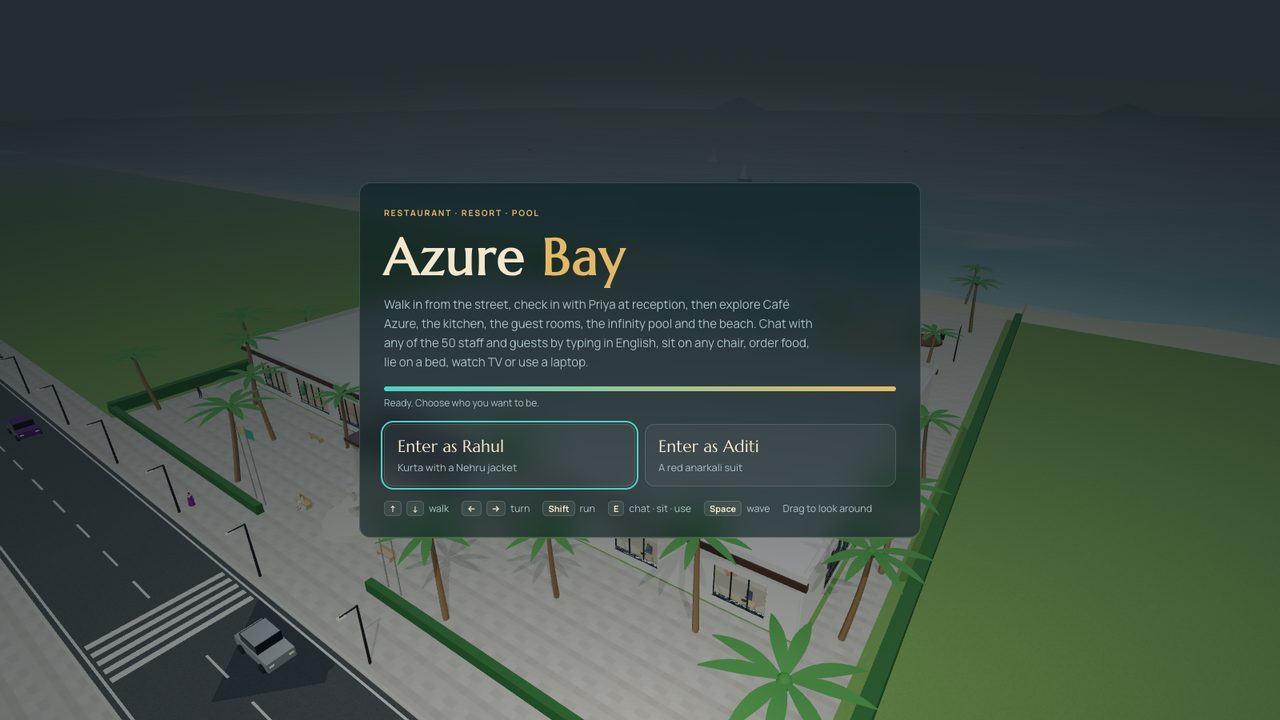
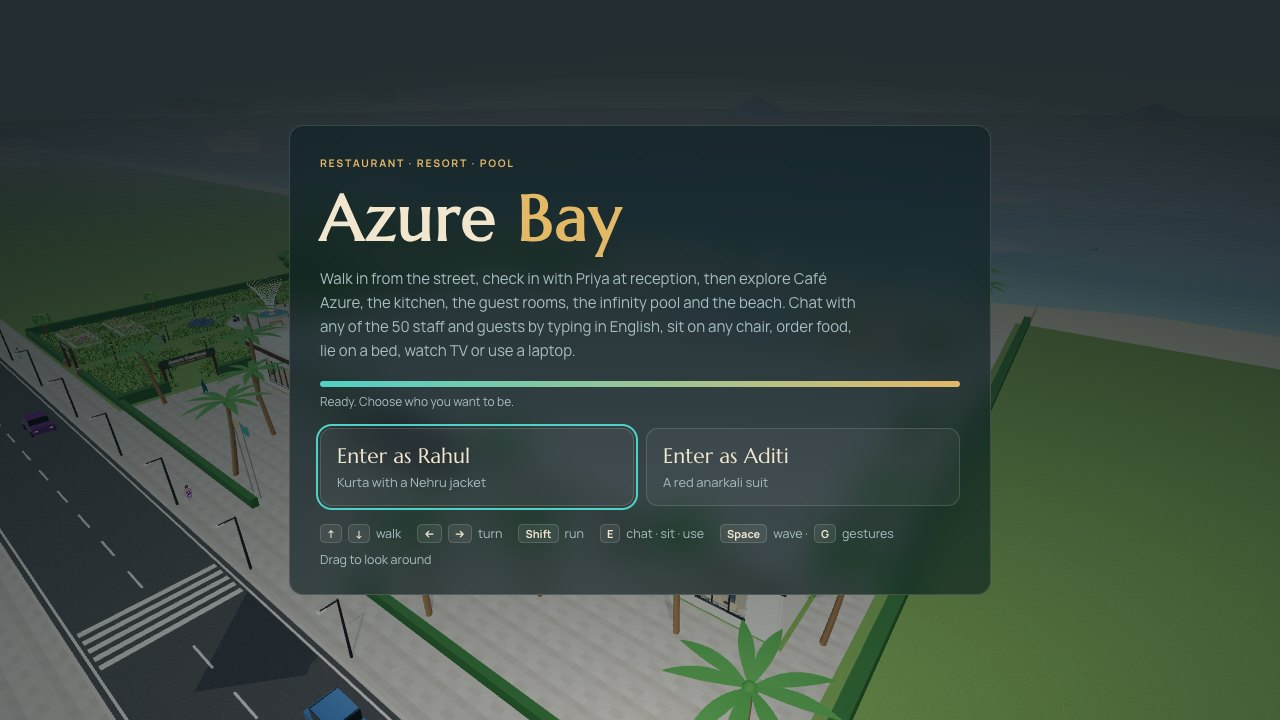
feat: update media assets with new images and animations

diff --git a/README.md b/README.md
@@ -17,6 +17,7 @@
   <a href="#-from-real-places-to-the-resort">Inspiration</a> ·
   <a href="#-meet-the-people">The people</a> ·
   <a href="#-everything-is-usable">What you can do</a> ·
+  <a href="#azure-gardens-the-park">The park</a> ·
   <a href="#-talk-to-anyone">Chat</a> ·
   <a href="#-controls">Controls</a> ·
   <a href="#-how-it-works">How it works</a> ·
@@ -31,20 +32,21 @@ the street, pass the fountain and the Sikh security guard, check in with Priya a
 then explore Café Azure, the kitchen, six guest rooms, the infinity pool, the pool bar and
 the beach.
 
-About fifty Indian staff and guests in traditional dress are living their day around you.
-You can **type to any of them in English**, sit on any free chair, order food, lie on a bed,
-switch on the TV or use a laptop. It is plain JavaScript and Three.js, with no build step and
-no backend.
+Fifty-eight real 3D Indian people are living their day around you: staff in the resort's
+teal uniform, and guests in sarees, salwar suits, kurtas and casual wear. Each has their own
+face, colours and height. You can **type to any of them in English**, sit on any free chair,
+order food, lie on a bed, switch on the TV, use a laptop, or relax in Azure Gardens, the
+park next door. It is plain JavaScript and Three.js, with no build step and no backend.
 
 <p align="center">
-  <img src="docs/media/walk.gif" alt="Walking through the entrance plaza toward the resort" width="720">
-  <br><sub>Walking into the entrance plaza, with the follow camera, minimap and quick-travel panel.</sub>
+  <img src="docs/media/walk.gif" alt="Aditi walking through the entrance plaza toward the resort, past Harpreet" width="720">
+  <br><sub>Aditi walks in from Ocean Drive past the fountain and Harpreet, with the follow camera, minimap and quick-travel panel.</sub>
 </p>
 
 <table align="center">
   <tr>
-    <td align="center" width="25%"><h2>51</h2><sub>people with their own routines</sub></td>
-    <td align="center" width="25%"><h2>108</h2><sub>chairs, beds, TVs and laptops you can use</sub></td>
+    <td align="center" width="25%"><h2>58</h2><sub>real 3D people with their own routines</sub></td>
+    <td align="center" width="25%"><h2>128</h2><sub>chairs, benches, beds, TVs and laptops you can use</sub></td>
     <td align="center" width="25%"><h2>10</h2><sub>zones, from the street and the park to the beach</sub></td>
     <td align="center" width="25%"><h2>0</h2><sub>build steps, servers or API keys</sub></td>
   </tr>
@@ -57,9 +59,10 @@ no backend.
 <table>
   <tr>
     <td width="33%" valign="top">
-      <h4>Traditional Indian cast</h4>
-      Everyone is generated in code in a warm animated-film style: sarees, lehengas,
-      anarkalis, sherwanis, dhoti-kurta, turbans, jhumkas and gajra.
+      <h4>Real 3D Indian cast</h4>
+      Sculpted, rigged people with five real men's faces and six women's faces. Sarees, salwar
+      suits, kurtas, polos and printed shirts, each in their own colours, plus bindis, earrings,
+      turbans and grey hair. No two look alike.
     </td>
     <td width="33%" valign="top">
       <h4>Type to chat</h4>
@@ -76,17 +79,17 @@ no backend.
     <td valign="top">
       <h4>A living scene</h4>
       Waiters carry trays, the chef cooks, housekeeping makes beds, swimmers do laps, a dancer
-      performs on the pool stage, and traffic and pedestrians pass on Ocean Drive.
+      performs on the pool stage, and Priya walks you to the café, the pool, your room or the park.
     </td>
     <td valign="top">
-      <h4>A receptionist state machine</h4>
-      Priya greets you, stands up and walks you to the café, the pool or Room 104,
-      waits if you fall behind, then returns to her desk.
+      <h4>Azure Gardens</h4>
+      A park beside the plaza: grass that parts as you walk through it, cherry trees shedding
+      petals, bluebells that glow at night, a voxel garden and the Vortex light sculpture.
     </td>
     <td valign="top">
       <h4>Runs anywhere</h4>
-      Quality profiles with device detection, instancing, frustum culling and a pause when the
-      tab is hidden. An on-screen joystick appears on phones.
+      Quality profiles with device detection, instancing, low-detail models for distant people,
+      culling and a pause when the tab is hidden. An on-screen joystick appears on phones.
     </td>
   </tr>
 </table>
@@ -146,27 +149,31 @@ VS Code *Live Server* extension also work.
 ## ✦ Meet the people
 
 <p align="center">
-  <img src="docs/media/cast.jpg" alt="Eight members of the cast in traditional dress" width="100%">
+  <img src="docs/media/cast.jpg" alt="Eight members of the cast: Priya, Harpreet, Rajesh, Kavya, Aisha, Lakshmi, Ramesh and Gopal" width="100%">
 </p>
 
 <p align="center">
-  <img src="docs/media/costumes.jpg" alt="Saree, sherwani, lehenga choli and dhoti kurta, full length" width="100%">
+  <img src="docs/media/costumes.jpg" alt="Full-length outfits: Aditi's saree, a saree, a salwar suit, a village saree, a kurta-pyjama, a polo, a printed shirt and a T-shirt" width="100%">
 </p>
 
-Every person is built at load time by [`characters/indian.js`](characters/indian.js) as **one
-smooth skinned mesh** on the X-Bot skeleton. Walking, sitting, waving and dancing therefore
-bend the saree pleats, the kurta hem and the braid along with the body.
+Everyone is a real, sculpted 3D model. They are built from a few rigged bodies, then each
+person is made their own: a different real face, face shape, skin tone, hair, height and
+colours ([`characters/looks.js`](characters/looks.js)).
 
 | | Women | Men |
 |---|---|---|
-| **Face** | Big brown eyes with kajal and a winged liner, arched brows, rosy cheeks, soft smile | Big brown eyes, thick brows, moustache (classic or royal), optional beard |
-| **Hair** | Centre parting with sindoor, bun with a jasmine gajra, long braid with a paranda, open hair | Side-parted quiff, grey for elders, Sikh pagri or Rajasthani safa |
-| **Dress** | Silk saree with front pleats, zari border and pallu · lehenga choli · anarkali · salwar kameez with dupatta | Kurta pyjama with side slits · Nehru jacket · sherwani · dhoti-kurta with shawl · chef's whites · security uniform |
-| **Jewellery** | Jhumkas, necklace and pendant, mangalsutra, maang tikka, nath, bangles, payal, mehndi | Kada, rudraksha mala, tilak |
-| **Footwear** | Juttis | Mojaris (pointed tips) |
+| **Bodies** | A draped saree, a salwar suit (kameez, churidar and dupatta) and a village-style saree | A kurta-pyjama, a polo with trousers, a printed shirt with jeans, and a T-shirt |
+| **Faces** | Six real faces, each reshaped a little (width, jaw, length, depth) | Five real faces, reshaped the same way |
+| **Colours** | The saree print turned to each woman's colour; kameez in plain, bandhani, block-print or check | Kurtas plain, striped, checked or dotted; shirts and trousers in their own colours |
+| **Details** | Bindi, nose ring, earrings, gajra flowers, glasses, lipstick, grey hair for elders | Beard or moustache, glasses, tilak, Harpreet's turban, the chefs' caps, grey hair for elders |
+| **Staff** | The resort saree (teal with an orange print) | A teal kurta with a cream pyjama |
 
-Women share the skeleton scaled to 1.65 m. Identical outfits share geometry, and each person
-takes two draw calls: one for cloth and skin, one for gold.
+**You** play as Rahul (the kurta model's own face) or Aditi (the *Free fire character in
+Indian look* exactly as made: pink saree, purple pallu and yellow blouse). Walking,
+running, sitting, lying, swimming and every gesture are retargeted onto each body. Women
+in a saree take shorter, quicker steps, and the saree hangs as one cloth instead of
+splitting into trouser legs. The models, their authors and licences are listed in
+[Real 3D people](#-real-3d-people).
 
 ---
 
@@ -175,7 +182,7 @@ takes two draw calls: one for cloth and skin, one for gold.
 <table>
   <tr>
     <td width="50%"><img src="docs/media/cafe.jpg" alt="Seated at a café table with the activity bar"><br><b>Café Azure.</b> Sit at any free table and press <b>Order food</b>. Sameer collects it at the kitchen pass, carries it over on a tray and serves it at your table.</td>
-    <td width="50%"><img src="docs/media/room.jpg" alt="Lying in bed in Room 104 with the cricket on TV"><br><b>Guest rooms.</b> Sit on the bed, lie down, sleep until morning, switch the TV on and flip channels.</td>
+    <td width="50%"><img src="docs/media/room.jpg" alt="Lying in bed in Room 104 with the cricket on TV"><br><b>Guest rooms.</b> Sit on the bed, lie down (here with the cricket on), sleep until morning, switch the TV on and flip channels.</td>
   </tr>
   <tr>
     <td><img src="docs/media/laptop.jpg" alt="Room laptop showing room service"><br><b>Laptops and the lobby computer.</b> Resort guide with travel, room service, weather and events, live cricket score, and notes saved in the browser.</td>
@@ -187,7 +194,7 @@ takes two draw calls: one for cloth and skin, one for gold.
 |---|---|
 | Café (48 seats) | Order from the menu (the waiter brings it), eat, chat with the diners next to you |
 | Pool bar (5 stools) | Order a drink (the bartender mixes and serves it), sip it |
-| Lobby sofas, plaza and pool benches | Sit, use your phone, wave |
+| Lobby sofas, plaza and pool benches, the park's ten benches | Sit, use your phone, wave |
 | Guest rooms 101–106 | Doors you open and close, bed (sit, lie down, sleep), armchair, desk with laptop, TV with 5 channels, room service delivered to the room |
 | Sun loungers (14) | Lie down, order a tender coconut (the pool server brings it) |
 | Lobby | Guest computer, menu stand, escort by the receptionist |
@@ -251,7 +258,7 @@ Press <kbd>G</kbd> (or **Gestures**) for 🙏 namaste, 🤝 handshake, ✋ high 
 🙇 bow, 👏 clap, 🙌 cheer, 💃 dance, 😄 laugh, nod, shake head and 🤔 think. The person
 you face answers: a namaste for a namaste, a wave back, a laugh, sometimes a dance.
 Handshakes and high fives bring you to arm's length, and two-bone arm IK sends both right
-hands to the same point, so the hands really meet. This works with seated people too. In
+hands toward the same point. This works with seated people too. In
 chat, typing *shake hands*, *high five*, *let's dance*, *namaste* or *tell me a joke* plays
 the matching move.
 
@@ -339,11 +346,12 @@ On phones and tablets, an on-screen joystick and an **E** button appear.
 ```mermaid
 flowchart LR
     subgraph Load
-        L[loader.js<br/>X-Bot skeleton + clips<br/>samba retargeted] --> I[indian.js<br/>generate each person<br/>one skinned mesh]
+        L[loader.js<br/>real 3D people + X-Bot clips<br/>retargeted by direction] --> I[looks.js<br/>faces · colours · height<br/>details · low detail]
     end
     subgraph World
         A[architecture.js] --- F[furniture.js<br/>seats · beds · TVs · laptops]
         F --- N[neighbourhood.js<br/>street · city · beach]
+        N --- PK[park.js<br/>Azure Gardens]
         E[environment.js<br/>sun · sky · day/night]
     end
     subgraph People
@@ -363,22 +371,26 @@ flowchart LR
 ```
 
 <details>
-<summary><b>Characters: from a skeleton to a person in a saree</b></summary>
+<summary><b>Characters: from a downloaded model to a person of their own</b></summary>
 
 <br>
 
-1. **Skeleton.** `loader.js` loads the X-Bot glTF with its idle, walk and run clips.
-   Michelle's samba is retargeted onto the same skeleton for the dancer.
-2. **Body frame.** The bind pose is measured, and the hips define a local frame.
-3. **Geometry.** A small builder emits rings, ellipsoids, tubes, tori and ribbons with
-   **vertex colours and skin weights**: the torso profile, limbs, hands, sculpted head, eyes,
-   lids, kajal, brows, nose, lips, hair caps, buns, braids, skirts with pleats and borders,
-   the pallu and dupatta drapes, and jewellery.
-4. **Skinning.** Skirts are weighted from the hips down to each thigh and shin, so they swing
-   when walking and fold when sitting. Drapes follow the spine and shoulders, and braids
-   follow the neck and back.
-5. **Sharing.** Geometry is cached per outfit, and two shared materials (matte and gold) give
-   each person two draw calls.
+1. **Models.** `loader.js` loads the rigged people listed in `CONFIG.people`: the bodies
+   (kurta, polo, shirt, T-shirt, saree, salwar suit), the models that lend only their faces,
+   and a low-detail copy of each for people far away.
+2. **Retargeting by direction.** The X-Bot's idle, walk, run and dance clips are copied onto
+   every skeleton. Each bone is first turned to point the way the X-Bot's bone points, so it
+   works even for a model rigged with its arms down. The hips keep the clip's bounce and
+   sway, scaled to the model's leg length, and the step rate follows the stride so feet
+   don't slide.
+3. **A person of their own.** `looks.js` swaps in one of the real faces (the models of one
+   family share a skeleton), reshapes the face, and recolours the clothes in the shader so
+   the print and folds stay. It also sets skin tone, hair colour and lipstick, paints a
+   beard or moustache, adds jewellery, glasses or a turban, and varies height and build.
+4. **Cloth.** A saree's leg weights are shared between both legs so it hangs like cloth. A
+   dupatta is built to fit each suit-wearer's body and skinned to the spine and shoulders.
+5. **Detail by distance.** Close up you see the full model. Far away, people switch to the
+   low-detail copy and their eyes and jewellery are hidden.
 
 </details>
 
@@ -402,7 +414,8 @@ flowchart LR
   WAITING/ARRIVED → RETURNING → SITTING`.
 - **Procedural poses** in `character.js` layer sitting, eating, typing, waving, talking,
   carrying, stirring and swimming on top of the animation clips.
-- **Culling.** People off-screen or far away are hidden and animate at a quarter or half rate.
+- **Culling.** People off-screen or far away are hidden, animate at a quarter or half rate
+  and switch to low-detail models.
   Static geometry is merged per material, and repeated props are instanced.
 
 </details>
@@ -415,8 +428,10 @@ flowchart LR
 | Balanced | 1024 px | up to 1.5× | full | most desktops |
 | High | 2048 px, soft | up to 2× | full | discrete GPUs |
 
-Measured on Balanced at the opening view: about **280 draw calls** and **840k triangles**,
-including the shadow pass. Models and textures total **3.5 MB**, and Three.js adds **0.8 MB**.
+Measured on Balanced at the opening view: about **540 draw calls** and **1.6 million
+triangles**, including the shadow pass and the park's meadow. The real 3D people are
+**43 MB** (34 MB of models plus 8 MB of low-detail copies). The X-Bot clips, props and
+images add **5.6 MB**, and Three.js adds **0.8 MB**.
 
 ---
 
@@ -427,12 +442,13 @@ including the shadow pass. Models and textures total **3.5 MB**, and Three.js ad
 ├── main.js                 Scene, renderer, render loop, input, wiring
 ├── config.js               Names, zones, escort routes, menu, resort facts, quality profiles
 ├── characters/
-│   ├── indian.js           Generates every person: body, face, hair, dress, jewellery
+│   ├── looks.js            Makes each real person their own: face, colours, height, details
+│   ├── indian.js           Fallback: generates a person in code if a model is missing
 │   ├── dialogue.js         Offline chat: intents and in-character replies
 │   ├── character.js        One animated person: locomotion blend tree, poses, IK gestures, look-at
 │   ├── npc.js              The cast, routines, deliveries, gesture reactions, receptionist
 │   ├── controller.js       The player: acceleration, collisions, animated sit / lie / stand
-│   └── loader.js           glTF loading, retargeting, measurements
+│   └── loader.js           glTF loading, retargeting by direction, low-detail copies
 ├── scene/
 │   ├── architecture.js     Building shell, walls, pool, signs, doors (sliding + real swing doors)
 │   ├── furniture.js        Furniture, TVs and channels, laptops, guest computer, anchors
@@ -455,7 +471,8 @@ including the shadow pass. Models and textures total **3.5 MB**, and Three.js ad
 │   └── chat.js             Chat panel
 ├── assets/models/          X-Bot (skeleton + clips), Michelle (samba clip)
 ├── assets/images/          Photos and paintings: start screen, lobby and room art
-├── assets/people/          Optional real 3D people (see "Real 3D people")
+├── assets/people/          The real 3D people and their low-detail copies (lod/)
+├── assets/props/           The thali served in the café
 ├── tools/import-model.sh   Convert, shrink and install a downloaded model
 ├── vendor/                 Three.js r170 and the addons used
 └── _headers                Cache headers for Netlify / Cloudflare Pages
@@ -463,11 +480,11 @@ including the shadow pass. Models and textures total **3.5 MB**, and Three.js ad
 
 ---
 
-## ✦ Real 3D people (optional)
+## ✦ Real 3D people
 
-You can swap the generated characters for downloaded, sculpted 3D people. They get the same
-walk, run, sit, lie, swim, door and gesture behaviour as everyone else, because the clips
-are retargeted onto their skeleton when the page loads.
+Every person in the resort is a downloaded, sculpted 3D model from Sketchfab. They all get
+the same walk, run, sit, lie, swim, door and gesture behaviour, because the clips are
+retargeted onto their skeleton when the page loads. To add or replace a model:
 
 1. **Download** the model from Sketchfab: *Download 3D Model → glTF (.glb)*. You need a
    free Sketchfab account.
@@ -490,7 +507,8 @@ are retargeted onto their skeleton when the page loads.
    - `use: [...]` gives the model to the named cast members only.
    - `player: 'm'` or `'f'` makes it your own character.
 
-   A model that isn't installed falls back to the generated character.
+   If a model isn't installed, that person falls back to a character generated in code
+   (`characters/indian.js`).
 
 ### Everyone is their own person
 
@@ -572,7 +590,9 @@ Almost everything a non-programmer might change lives in [`config.js`](config.js
 | Walking speed, camera, graphics profiles | `CONFIG.player`, `CONFIG.camera`, `CONFIG.quality` |
 
 People, outfits and routines are in [`characters/npc.js`](characters/npc.js). An outfit is
-one line:
+one line. Its style picks the body (`saree` and `lehenga` → saree, `salwar` and `anarkali`
+→ salwar suit, men → kurta or casual wear), and its colours, skin, beard and jewellery
+shape that person's look:
 
 ```js
 D.saree({ main: 0x8b1538, blouse: 0xe3b33f, hair: 'bun', sindoor: true, skin: 'wheat' })
@@ -608,7 +628,8 @@ always get the latest version. `azure-bay.html` is a variant for hosts that cann
 - Beards and moustaches are painted on the skin, not modelled hair.
 - Chat is rule-based and offline. Unusual questions get a polite *"I'm not sure, try asking
   about…"*.
-- When someone lies down in a wide lehenga or anarkali, the hem lifts a little.
+- The page downloads about 50 MB, mostly the 3D people. Python's simple web server can
+  drop a large file now and then; reload if someone looks wrong.
 
 ## ✦ Credits
 
@@ -617,7 +638,8 @@ always get the latest version. `azure-bay.html` is a variant for hosts that cann
   (originally Mixamo), optimised with gltf-transform. *Soldier* and *RobotExpressive* are
   kept in `assets/models/` but are not loaded.
 - The photographs and painted versions in `assets/images/` were provided for this project.
-- Every body, face, costume, building, prop, texture, sign and TV programme is generated in
-  code.
+- The 3D people and the thali are Sketchfab models, credited with their licences in
+  [Real 3D people](#-real-3d-people). Everything else (the buildings, furniture, park, props,
+  textures, signs and TV programmes) is generated in code.
 
 <p align="center"><br><a href="#top">Back to top ↑</a></p>
